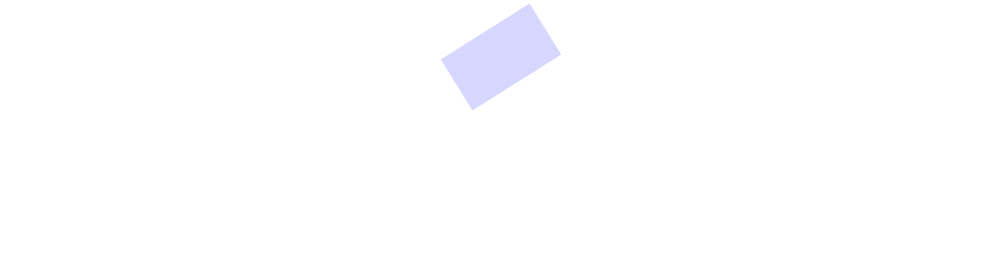
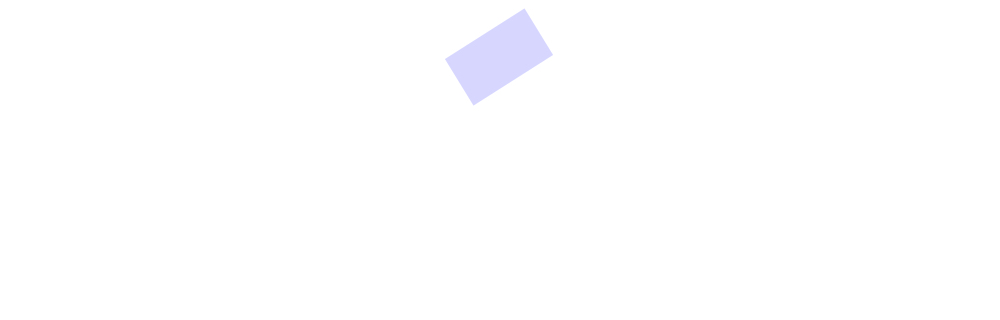
herobackground image adjusted

Changed region(s): [[0.434, 0.0286, 0.558, 0.4], [0.465, 0.1143, 0.496, 0.1429]]

diff --git a/css/style.css b/css/style.css
@@ -113,7 +113,7 @@ p {
 }
 
 #hero {
-  padding-top: 3%;
+  padding-top: 2%;
   padding-bottom: 4%;
 }
 
@@ -266,6 +266,12 @@ nav>ul>li {
 
 .responsive nav>ul>li {
   display: block;
+}
+
+.herobackground {
+  background: url(../img/fun/purple-shape.jpg);
+  background-repeat: no-repeat;
+  background-position: center;
 }
 
 /* --------------------------------- HEADER SECTION ENDS HERE--------------------------------- */
@@ -422,15 +428,6 @@ footer {
   background-color: #D7D7FE;
 }
 
-
-
-.herobackground {
-  background: url(../img/fun/purple-shape.jpg);
-  background-repeat: no-repeat;
-  background-size: cover;
-  background-position: center;
-
-}
 /* ---------FOOTER BACKGROUND IMAGE STARTS----------------------------- */
 .boxfooter {
   background: url(../img/fun/gradient-footer.jpg);
@@ -438,6 +435,7 @@ footer {
   background-size: cover;
   background-position: center;
 }
+
 /* ---------FOOTER BACKGROUND IMAGE ENDS----------------------------- */
 #contact {
   text-align: center;
@@ -617,13 +615,6 @@ footer a:hover {
     padding-right: 0;
   }
 
-  .herobackground {
-    background: url(../img/fun/purple-shape.jpg);
-    background-repeat: no-repeat;
-    background-position: center;
-  }
-
-
   .profile-pic-container {
     min-width: 35%;
     padding: 20px;
@@ -680,12 +671,6 @@ footer a:hover {
     right: 0;
     top: 15px;
     padding-right: 0;
-  }
-
-  .herobackground {
-    background: url(../img/fun/purple-shape.jpg);
-    background-repeat: no-repeat;
-    background-position: center;
   }
 
   .boxabout {
@@ -774,12 +759,6 @@ footer a:hover {
     display: inline-block;
   }
 
-  .herobackground {
-    background: url(../img/fun/purple-shape-500.jpg);
-    background-repeat: no-repeat;
-    background-position: center;
-  }
-
   nav {
     width: auto;
     float: right;
@@ -858,7 +837,7 @@ footer a:hover {
   main {
     margin: 0 auto;
     padding: 0 20px;
-    padding-top: 135px;
+    padding-top: 140px;
   }
 }
 
@@ -878,6 +857,7 @@ footer a:hover {
     background: url(../img/fun/purple-shape-500.jpg);
     background-repeat: no-repeat;
     background-position: center;
+  }
 
   main {
     margin: 0 auto;

diff --git a/index.html b/index.html
@@ -33,6 +33,7 @@
 <!-- Header ends -->
 <main>
   <div id="hero" class="herobackground">
+    <div class="container">
       <div class="box">
         <h1>NATHALIE MCCUBBIN</h1>
         <h4>Hi there! I’m a<span style="color:#000000;font-weight:bold;"> UI & VISUAL DESIGNER </span>based in Berlin, Germany.
@@ -41,6 +42,7 @@
         </h4>
       </div>
     </div>
+  </div>
   <!-- Project displayed in rows. 2 cards in a row. -->
   <div class="projects">
     <div class="row">
@@ -103,7 +105,7 @@
           </picture>
           <picture class="card-image-on-hover">
             <source srcset="img/covers/new-covers/cover-seedlings-hover@0,5x.jpg" media="(max-width:767px)">
-            <img src="img/covers/new-covers/cover-seedlings-hover.jpg" alt="cover-seedlings-hover-image">
+            <img src="img/covers/new-covers/cover-seedlings-hover.jpg" alt="cover-papercut-hover-image">
           </picture>
           <h3> SEEDLINGS - Vegan Recipe Web App</h3>
         </a>
